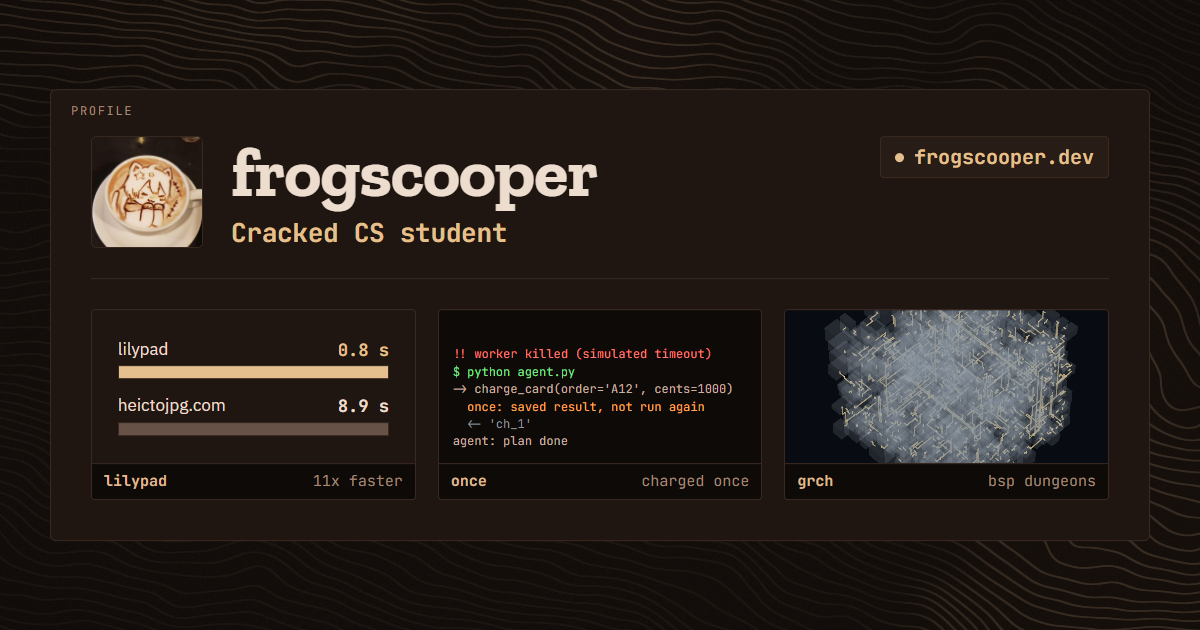
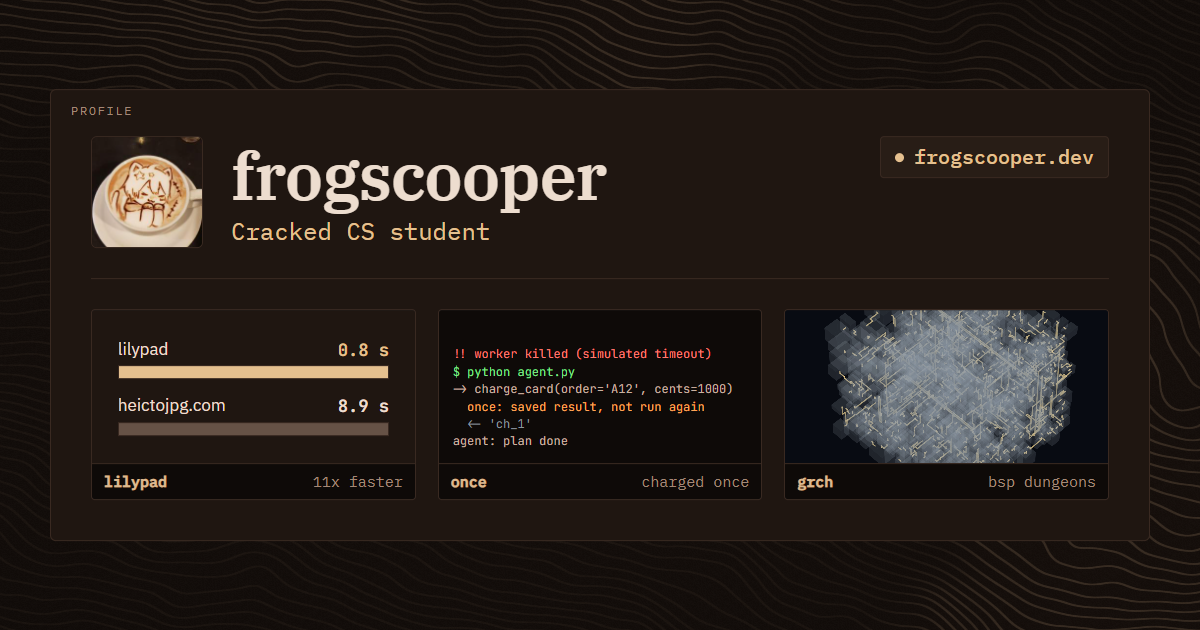
Replace the status tile with an activity heatmap and set the social card in Plex
- Profile: the "looking for" chip and the email/github buttons move into
  the profile box, beside the name
- New activity tile (assets/heat.js): contributions from contrib.json
  summed by weekday and month over the last 12 months
- Social card: IBM Plex Serif name with Plex Mono for the small text;
  og:image is now og.png?v=3

diff --git a/index.html b/index.html
@@ -16,7 +16,7 @@
   <meta property="og:title" content="frogscooper | CS @ Ohio State">
   <meta property="og:description" content="frogscooper, CS sophomore @ Ohio State. Projects, research, and contact.">
   <meta property="og:url" content="https://frogscooper.dev/">
-  <meta property="og:image" content="https://frogscooper.dev/assets/og.png?v=2">
+  <meta property="og:image" content="https://frogscooper.dev/assets/og.png?v=3">
   <meta property="og:image:type" content="image/png">
   <meta property="og:image:width" content="1200">
   <meta property="og:image:height" content="630">
@@ -24,12 +24,12 @@
   <meta name="twitter:card" content="summary_large_image">
   <meta name="twitter:title" content="frogscooper | CS @ Ohio State">
   <meta name="twitter:description" content="frogscooper, CS sophomore @ Ohio State. Projects, research, and contact.">
-  <meta name="twitter:image" content="https://frogscooper.dev/assets/og.png?v=2">
+  <meta name="twitter:image" content="https://frogscooper.dev/assets/og.png?v=3">
   <meta name="twitter:image:alt" content="frogscooper, Cracked CS student: a latte-art profile photo beside project covers for Lilypad, once and GRCH. frogscooper.dev">
   <meta name="google-adsense-account" content="ca-pub-9008261213236010">
   <link rel="stylesheet" href="/assets/pond.css?v=12">
   <link rel="stylesheet" href="https://fonts.googleapis.com/css2?family=IBM+Plex+Sans:wght@400;500;600&amp;family=Zilla+Slab:wght@500;700&amp;display=swap">
-  <link rel="stylesheet" href="/assets/instrument.css?v=3">
+  <link rel="stylesheet" href="/assets/instrument.css?v=4">
 </head>
 <body class="d-instrument page-home">
   <a class="skip" href="#main">Skip to content</a>
@@ -70,8 +70,16 @@
           </a>
         </div>
         <div class="who">
+          <div class="who-head">
+            <div>
           <h1>frogscooper</h1>
           <a class="handle" href="https://github.com/frogscooper"><svg viewBox="0 0 16 16" aria-hidden="true"><path d="M8 0C3.58 0 0 3.58 0 8c0 3.54 2.29 6.53 5.47 7.59.4.07.55-.17.55-.38 0-.19-.01-.82-.01-1.49-2.01.37-2.53-.49-2.69-.94-.09-.23-.48-.94-.82-1.13-.28-.15-.68-.52-.01-.53.63-.01 1.08.58 1.23.82.72 1.21 1.87.87 2.33.66.07-.52.28-.87.51-1.07-1.78-.2-3.64-.89-3.64-3.95 0-.87.31-1.59.82-2.15-.08-.2-.36-1.02.08-2.12 0 0 .67-.21 2.2.82.64-.18 1.32-.27 2-.27.68 0 1.36.09 2 .27 1.53-1.04 2.2-.82 2.2-.82.44 1.1.16 1.92.08 2.12.51.56.82 1.27.82 2.15 0 3.07-1.87 3.75-3.65 3.95.29.25.54.73.54 1.48 0 1.07-.01 1.93-.01 2.2 0 .21.15.46.55.38A8.013 8.013 0 0016 8c0-4.42-3.58-8-8-8z"/></svg>github.com/frogscooper</a>
+            </div>
+            <div class="who-acts">
+              <span class="seek">looking for: SWE internship</span>
+              <div class="acts"><a class="btn ink" href="mailto:stemboy@posteo.com">email</a><a class="btn" href="https://github.com/frogscooper">github</a></div>
+            </div>
+          </div>
           <p class="desc">CS sophomore @ OSU. I build software with 3 priorities: efficiency, precision, and aura.</p>
           <dl class="facts">
             <div><dt>currently</dt><dd>making ftfy-rs</dd></div>
@@ -82,9 +90,10 @@
             <div><dt>merged into</dt><dd class="merged"><!-- merged:start --><a class="repo" href="https://github.com/ggml-org/llama.cpp/pulls?q=is%3Apr%20is%3Amerged%20author%3Afrogscooper" title="133,563 stars"><img src="https://avatars.githubusercontent.com/u/134263123?v=4&amp;s=32" alt="" width="16" height="16" loading="lazy"><span>ggml-org/<b>llama.cpp</b></span><em>★ 133.6k</em></a><a class="repo" href="https://github.com/uutils/coreutils/pulls?q=is%3Apr%20is%3Amerged%20author%3Afrogscooper" title="24,338 stars"><img src="https://avatars.githubusercontent.com/u/5148717?v=4&amp;s=32" alt="" width="16" height="16" loading="lazy"><span>uutils/<b>coreutils</b></span><em>★ 24.3k</em></a><a class="repo" href="https://github.com/toss/es-toolkit/pulls?q=is%3Apr%20is%3Amerged%20author%3Afrogscooper" title="11,384 stars"><img src="https://avatars.githubusercontent.com/u/25682207?v=4&amp;s=32" alt="" width="16" height="16" loading="lazy"><span>toss/<b>es-toolkit</b></span><em>★ 11.4k</em></a><!-- merged:end --></dd></div>
           </dl>
         </div>
-        <div class="side">
-          <span class="seek">looking for: SWE internship</span>
-          <div class="acts"><a class="btn ink" href="mailto:stemboy@posteo.com">email</a><a class="btn" href="https://github.com/frogscooper">github</a></div>
+        <!-- drawn by assets/heat.js from assets/contrib.json: contributions by weekday and month -->
+        <div class="side heat">
+          <svg class="heat-map" role="img" aria-label="GitHub contributions by weekday over the last 12 months"></svg>
+          <p class="heat-cap">contributions by weekday, 12 mo</p>
         </div>
       </div>
       <nav class="tabs" aria-label="Primary">
@@ -237,6 +246,7 @@
   <script src="/assets/prs.js?v=3" defer></script>
   <script type="module" src="/assets/contrib.js?v=7"></script>
   <script src="/assets/langs.js?v=2" defer></script>
+  <script src="/assets/heat.js?v=1" defer></script>
   <script>
   (() => {
     const reduce = matchMedia('(prefers-reduced-motion: reduce)').matches;

diff --git a/assets/instrument.css b/assets/instrument.css
@@ -77,20 +77,28 @@ footer a:hover { color: var(--leaf); }
   position: absolute; top: 11px; left: 16px; font: 10px/1 var(--mono); text-transform: uppercase; letter-spacing: .14em; color: var(--muted);
 }
 .d-instrument .gh .who::before { content: "profile"; }
-.d-instrument .gh .side::before { content: "status"; }
+.d-instrument .gh .side::before { content: "activity"; }
 .d-instrument .gh .langs::before { content: "languages"; }
 .d-instrument .page-head .who::before { content: "page"; }
 .d-instrument .gh .pfp { width: auto; height: auto; aspect-ratio: 1; overflow: hidden; padding: 0; }
 .d-instrument .gh .who { padding: 30px 20px 14px; min-width: 0; display: flex; flex-direction: column; }
-.d-instrument .gh .who .handle { align-self: flex-start; }
+/* name on the left, the internship chip and contact buttons on the right */
+.d-instrument .who-head { display: flex; flex-wrap: wrap; align-items: flex-start; justify-content: space-between; gap: 12px 20px; }
+.d-instrument .who-acts { display: flex; flex-direction: column; align-items: flex-end; gap: 10px; }
 /* the facts fill what the row height leaves, spread across their lines, so no gap pools under "merged into" */
 .d-instrument .gh .facts { flex: 1; align-content: space-between; }
 .d-instrument .who h1 { margin: 0; font: 700 46px/1 var(--slab); letter-spacing: -.01em; color: var(--ink); }
 .d-instrument .who .desc { margin: 10px 0 0; font-size: 17px; color: var(--ink); max-width: 60ch; }
 .d-instrument .facts { margin-top: 16px; padding-top: 14px; border-top: 1px solid var(--line); max-width: none; }
 .d-instrument .facts dt { color: var(--muted); }
-.d-instrument .gh .side { display: flex; flex-direction: column; align-items: flex-start; justify-content: flex-start; gap: 14px; padding: 38px 16px 16px; }
-.d-instrument .gh .side .acts { margin-top: auto; }
+.d-instrument .gh .side { display: flex; flex-direction: column; align-items: stretch; justify-content: space-between; gap: 10px; padding: 34px 16px 14px; }
+/* activity heatmap (assets/heat.js): weekdays down, months across, darker = fewer */
+.heat-map { display: block; width: 100%; height: auto; overflow: visible; }
+.heat-map text { font: 9px var(--mono); fill: var(--muted); }
+.heat-map rect { stroke: none; }
+.heat-map .l0 { fill: var(--f0); } .heat-map .l1 { fill: var(--f1); } .heat-map .l2 { fill: var(--f2); }
+.heat-map .l3 { fill: var(--f3); } .heat-map .l4 { fill: var(--f4); }
+.heat-cap { margin: 0; font: 10.5px/1.3 var(--mono); color: var(--muted); }
 .d-instrument .gh .langs { display: flex; flex-direction: column; justify-content: flex-start; gap: 12px; padding: 38px 16px 16px; max-width: none; }
 .d-instrument .gh .lang-key { flex-direction: column; gap: 7px; }
 .d-instrument .gh .lang-key span { display: flex; align-items: center; }
@@ -172,8 +180,8 @@ a.cover:hover, .card.playing .cover { transform: none; box-shadow: 0 0 0 1px var
 @media (max-width: 760px) {
   .pondview { height: 16px; }
   .d-instrument .prof.gh { grid-template-columns: minmax(0, 1fr) minmax(0, 1fr); grid-template-areas: "pfp side" "who who" "nums nums" "langs langs"; gap: 10px; }
-  .d-instrument .gh .side { justify-content: flex-start; padding: 34px 12px 12px; gap: 10px; }
-  .d-instrument .gh .side .acts { flex-wrap: wrap; gap: 8px; }
+  .d-instrument .gh .side { padding: 30px 12px 12px; gap: 8px; }
+  .d-instrument .who-acts { flex-direction: row; flex-wrap: wrap; align-items: center; gap: 8px; }
   .d-instrument .seek { white-space: normal; line-height: 1.3; }
   .d-instrument .gh .who { padding: 30px 16px 14px; }
   .d-instrument .who h1 { font-size: 34px; }

diff --git a/_designs/og/card.html b/_designs/og/card.html
@@ -7,6 +7,8 @@
        Render with: python3 scripts/og.py -->
   <link rel="stylesheet" href="https://fonts.googleapis.com/css2?family=JetBrains+Mono:wght@400;700&display=swap">
   <link rel="stylesheet" href="https://fonts.googleapis.com/css2?family=IBM+Plex+Sans:wght@400;500;600&amp;family=Zilla+Slab:wght@500;700&amp;display=swap">
+  <!-- the card's own type (option B from _designs/og/fonts): Plex Serif name, Plex Mono everything small -->
+  <link rel="stylesheet" href="https://fonts.googleapis.com/css2?family=IBM+Plex+Serif:wght@500;600&amp;family=IBM+Plex+Mono:wght@400;500&amp;display=swap">
   <link rel="stylesheet" href="/assets/pond.css">
   <link rel="stylesheet" href="/assets/instrument.css">
   <style>
@@ -15,20 +17,20 @@ body { background: none; }  /* let the threads canvas (z-index -1) show through 
 .og { position: absolute; inset: 0; }
 .panel { position: absolute; left: 50px; top: 50%; translate: 0 -50%; width: 1100px; box-sizing: border-box; padding: 46px 40px 40px;
   background: var(--paper); border: 1px solid var(--line); border-radius: var(--r); }
-.panel::before { content: "profile"; position: absolute; top: 15px; left: 20px; font: 12px/1 var(--mono); text-transform: uppercase; letter-spacing: .14em; color: var(--muted); }
+.panel::before { content: "profile"; position: absolute; top: 15px; left: 20px; font: 12px/1 "IBM Plex Mono", monospace; text-transform: uppercase; letter-spacing: .14em; color: var(--muted); }
 .c-top { display: flex; align-items: center; gap: 28px; }
 .pic { width: 112px; height: 112px; border: 1px solid var(--line); border-radius: var(--r); overflow: hidden; flex: none; }
 .pic img { display: block; width: 100%; height: 100%; object-fit: cover; }
-h1 { margin: 0; font: 700 70px/1 var(--slab); letter-spacing: -.01em; color: var(--ink); }
-.c-sub { margin: 12px 0 0; font: 700 26px/1.1 var(--mono); letter-spacing: -.01em; color: var(--leaf); }
+h1 { margin: 0; font: 600 66px/1 "IBM Plex Serif", Georgia, serif; letter-spacing: -.015em; color: var(--ink); }
+.c-sub { margin: 12px 0 0; font: 400 24px/1.2 "IBM Plex Mono", monospace; color: var(--leaf); }
 .url { margin-left: auto; align-self: flex-start; display: inline-flex; align-items: center; gap: 10px; padding: 10px 14px;
-  font: 700 20px/1 var(--mono); color: var(--leaf); background: var(--pad); border: 1px solid var(--line); border-radius: 4px; }
+  font: 500 20px/1 "IBM Plex Mono", monospace; color: var(--leaf); background: var(--pad); border: 1px solid var(--line); border-radius: 4px; }
 .url::before { content: ""; width: 9px; height: 9px; border-radius: 50%; background: var(--leaf); }
 .c-grid { display: grid; grid-template-columns: repeat(3, 1fr); gap: 22px; margin-top: 30px; padding-top: 30px; border-top: 1px solid var(--line); }
 
 .c-grid .cover { aspect-ratio: 16 / 9.4; border-width: 1px; }
 .c-grid .cover > .art { inset: 0 0 36px; }
-.c-grid .strip { height: 36px; font-size: 15px; padding: 0 12px; border-top: 1px solid var(--line); }
+.c-grid .strip { height: 36px; font-size: 15px; font-family: "IBM Plex Mono", monospace; padding: 0 12px; border-top: 1px solid var(--line); }
 .c-grid .strip .len { color: var(--muted); }
 .c-grid .lily { gap: 14px; }
 .c-grid .lane, .c-grid .lane .t { font-size: 17px; color: var(--ink); }

diff --git a/assets/heat.js b/assets/heat.js
@@ -1,0 +1,48 @@
+// Activity heatmap in the profile's top-right tile: GitHub contributions summed by weekday (rows,
+// mon..sun) and month (columns, the last 12), from the same /assets/contrib.json as the
+// contribution graph (scripts/contrib.py). Darker cells are quieter; the busiest cell is lightest.
+// Without JavaScript or data the tile keeps just its caption.
+(async () => {
+  const svg = document.querySelector('.heat-map');
+  if (!svg) return;
+  const MON = ['jan', 'feb', 'mar', 'apr', 'may', 'jun', 'jul', 'aug', 'sep', 'oct', 'nov', 'dec'];
+  const DAY = ['mon', 'tue', 'wed', 'thu', 'fri', 'sat', 'sun'];
+  let data;
+  try { data = await (await fetch('/assets/contrib.json')).json(); } catch (e) { return; }
+  if (!data || !data.days || !data.days.length) return;
+
+  // the 12 months ending with the month of the newest day
+  const end = new Date(data.days[data.days.length - 1][0] + 'T00:00:00Z');
+  const months = [];
+  for (let i = 11; i >= 0; i--) {
+    const d = new Date(Date.UTC(end.getUTCFullYear(), end.getUTCMonth() - i, 1));
+    months.push(d.getUTCFullYear() * 12 + d.getUTCMonth());
+  }
+  const sum = DAY.map(() => months.map(() => 0));
+  for (const [s, n] of data.days) {
+    const d = new Date(s + 'T00:00:00Z'), col = months.indexOf(d.getUTCFullYear() * 12 + d.getUTCMonth());
+    if (col >= 0) sum[(d.getUTCDay() + 6) % 7][col] += n;
+  }
+  const max = Math.max(1, ...sum.flat());
+  const level = (n) => (n === 0 ? 0 : Math.min(4, Math.ceil((n / max) * 4)));
+
+  // geometry in SVG units; the SVG scales to the tile's width
+  const LAB = 22, CELL = 16, GAP = 2, P = CELL + GAP, TOP = 0, W = LAB + 12 * P - GAP, H = TOP + 7 * P + 12;
+  const ns = 'http://www.w3.org/2000/svg', el = (tag, attrs, text) => {
+    const n = document.createElementNS(ns, tag);
+    for (const k in attrs) n.setAttribute(k, attrs[k]);
+    if (text != null) n.textContent = text;
+    return n;
+  };
+  svg.setAttribute('viewBox', `0 0 ${W} ${H}`);
+  DAY.forEach((name, r) => {
+    if (r % 2 === 0) svg.append(el('text', { x: 0, y: TOP + r * P + CELL - 4 }, name));
+    months.forEach((m, c) => {
+      const n = sum[r][c], mon = MON[m % 12], yr = Math.floor(m / 12);
+      const cell = el('rect', { x: LAB + c * P, y: TOP + r * P, width: CELL, height: CELL, rx: 3, class: 'l' + level(n) });
+      cell.append(el('title', {}, `${n} contribution${n === 1 ? '' : 's'} on ${name}days, ${mon} ${yr}`));
+      svg.append(cell);
+    });
+  });
+  months.forEach((m, c) => svg.append(el('text', { x: LAB + c * P + CELL / 2, y: H - 1, 'text-anchor': 'middle' }, MON[m % 12][0])));
+})();

diff --git a/contact/index.html b/contact/index.html
@@ -16,7 +16,7 @@
   <meta property="og:title" content="Contact | frogscooper">
   <meta property="og:description" content="Get in touch with frogscooper about research, technical collaborations, or interesting projects.">
   <meta property="og:url" content="https://frogscooper.dev/contact/">
-  <meta property="og:image" content="https://frogscooper.dev/assets/og.png?v=2">
+  <meta property="og:image" content="https://frogscooper.dev/assets/og.png?v=3">
   <meta property="og:image:type" content="image/png">
   <meta property="og:image:width" content="1200">
   <meta property="og:image:height" content="630">
@@ -24,12 +24,12 @@
   <meta name="twitter:card" content="summary_large_image">
   <meta name="twitter:title" content="Contact | frogscooper">
   <meta name="twitter:description" content="Get in touch with frogscooper about research, technical collaborations, or interesting projects.">
-  <meta name="twitter:image" content="https://frogscooper.dev/assets/og.png?v=2">
+  <meta name="twitter:image" content="https://frogscooper.dev/assets/og.png?v=3">
   <meta name="twitter:image:alt" content="frogscooper, Cracked CS student: a latte-art profile photo beside project covers for Lilypad, once and GRCH. frogscooper.dev">
   <meta name="google-adsense-account" content="ca-pub-9008261213236010">
   <link rel="stylesheet" href="/assets/pond.css?v=11">
   <link rel="stylesheet" href="https://fonts.googleapis.com/css2?family=IBM+Plex+Sans:wght@400;500;600&amp;family=Zilla+Slab:wght@500;700&amp;display=swap">
-  <link rel="stylesheet" href="/assets/instrument.css?v=3">
+  <link rel="stylesheet" href="/assets/instrument.css?v=4">
 </head>
 <body class="d-instrument page-contact">
   <a class="skip" href="#main">Skip to content</a>

diff --git a/research/index.html b/research/index.html
@@ -16,7 +16,7 @@
   <meta property="og:title" content="Research | frogscooper">
   <meta property="og:description" content="Research by frogscooper on algorithms, simulation, and systems.">
   <meta property="og:url" content="https://frogscooper.dev/research/">
-  <meta property="og:image" content="https://frogscooper.dev/assets/og.png?v=2">
+  <meta property="og:image" content="https://frogscooper.dev/assets/og.png?v=3">
   <meta property="og:image:type" content="image/png">
   <meta property="og:image:width" content="1200">
   <meta property="og:image:height" content="630">
@@ -24,12 +24,12 @@
   <meta name="twitter:card" content="summary_large_image">
   <meta name="twitter:title" content="Research | frogscooper">
   <meta name="twitter:description" content="Research by frogscooper on algorithms, simulation, and systems.">
-  <meta name="twitter:image" content="https://frogscooper.dev/assets/og.png?v=2">
+  <meta name="twitter:image" content="https://frogscooper.dev/assets/og.png?v=3">
   <meta name="twitter:image:alt" content="frogscooper, Cracked CS student: a latte-art profile photo beside project covers for Lilypad, once and GRCH. frogscooper.dev">
   <meta name="google-adsense-account" content="ca-pub-9008261213236010">
   <link rel="stylesheet" href="/assets/pond.css?v=11">
   <link rel="stylesheet" href="https://fonts.googleapis.com/css2?family=IBM+Plex+Sans:wght@400;500;600&amp;family=Zilla+Slab:wght@500;700&amp;display=swap">
-  <link rel="stylesheet" href="/assets/instrument.css?v=3">
+  <link rel="stylesheet" href="/assets/instrument.css?v=4">
 </head>
 <body class="d-instrument page-research">
   <a class="skip" href="#main">Skip to content</a>

diff --git a/open-source/index.html b/open-source/index.html
@@ -16,7 +16,7 @@
   <meta property="og:title" content="Open Source | frogscooper">
   <meta property="og:description" content="Open source pull requests by frogscooper.">
   <meta property="og:url" content="https://frogscooper.dev/open-source/">
-  <meta property="og:image" content="https://frogscooper.dev/assets/og.png?v=2">
+  <meta property="og:image" content="https://frogscooper.dev/assets/og.png?v=3">
   <meta property="og:image:type" content="image/png">
   <meta property="og:image:width" content="1200">
   <meta property="og:image:height" content="630">
@@ -24,12 +24,12 @@
   <meta name="twitter:card" content="summary_large_image">
   <meta name="twitter:title" content="Open Source | frogscooper">
   <meta name="twitter:description" content="Open source pull requests by frogscooper.">
-  <meta name="twitter:image" content="https://frogscooper.dev/assets/og.png?v=2">
+  <meta name="twitter:image" content="https://frogscooper.dev/assets/og.png?v=3">
   <meta name="twitter:image:alt" content="frogscooper, Cracked CS student: a latte-art profile photo beside project covers for Lilypad, once and GRCH. frogscooper.dev">
   <meta name="google-adsense-account" content="ca-pub-9008261213236010">
   <link rel="stylesheet" href="/assets/pond.css?v=11">
   <link rel="stylesheet" href="https://fonts.googleapis.com/css2?family=IBM+Plex+Sans:wght@400;500;600&amp;family=Zilla+Slab:wght@500;700&amp;display=swap">
-  <link rel="stylesheet" href="/assets/instrument.css?v=3">
+  <link rel="stylesheet" href="/assets/instrument.css?v=4">
 </head>
 <body class="d-instrument page-os">
   <a class="skip" href="#main">Skip to content</a>

diff --git a/404.html b/404.html
@@ -14,7 +14,7 @@
   <meta name="google-adsense-account" content="ca-pub-9008261213236010">
   <link rel="stylesheet" href="/assets/pond.css?v=11">
   <link rel="stylesheet" href="https://fonts.googleapis.com/css2?family=IBM+Plex+Sans:wght@400;500;600&amp;family=Zilla+Slab:wght@500;700&amp;display=swap">
-  <link rel="stylesheet" href="/assets/instrument.css?v=3">
+  <link rel="stylesheet" href="/assets/instrument.css?v=4">
 </head>
 <body class="d-instrument page-404">
   <a class="skip" href="#main">Skip to content</a>
